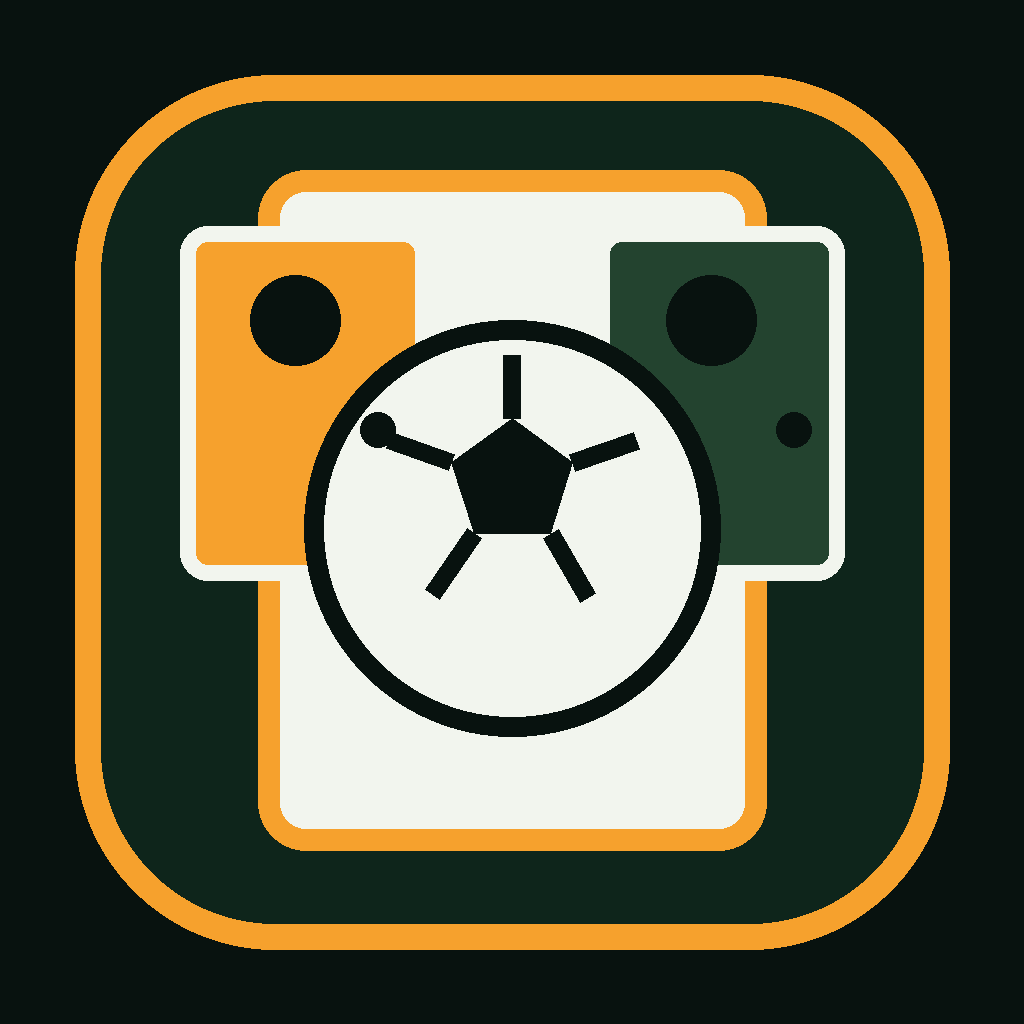
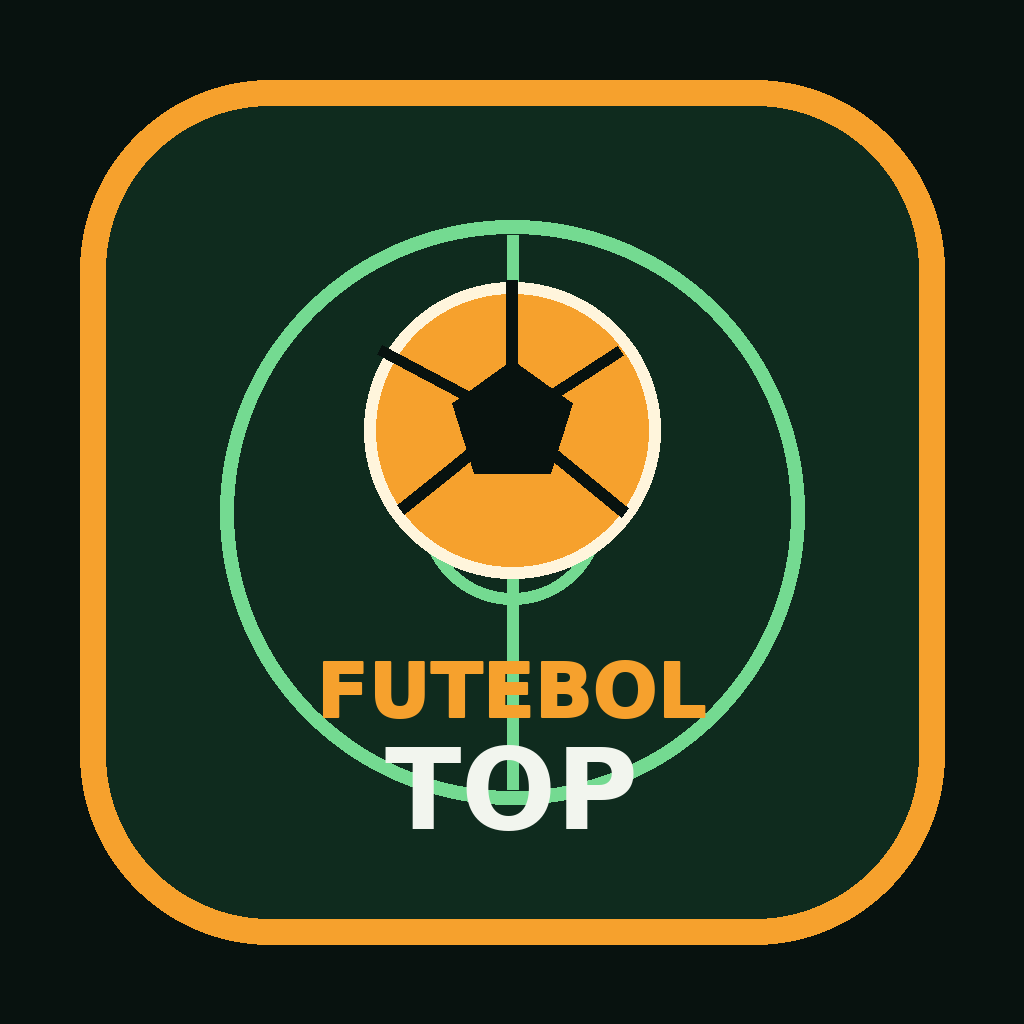
Rebrand Futebol Top v1.0.3, improve controls and remove explanatory copy

diff --git a/App.js b/App.js
@@ -1,5 +1,6 @@
 import React,{useEffect,useMemo,useRef,useState} from 'react';
-import {SafeAreaView,ScrollView,View,Text,TextInput,TouchableOpacity,StyleSheet,StatusBar,Alert,Image} from 'react-native';
+import {ScrollView,View,Text,TextInput,TouchableOpacity,StyleSheet,StatusBar,Alert,Image} from 'react-native';
+import {SafeAreaView} from 'react-native-safe-area-context';
 import AsyncStorage from '@react-native-async-storage/async-storage';
 
 const C={bg:'#08120f',panel:'#101f19',panel2:'#162a20',line:'#2a4535',orange:'#f6a12d',green:'#74da91',white:'#f2f5ee',muted:'#a4b4a7',red:'#ff7265'};
@@ -36,14 +37,14 @@ function nextSeason(){S(old=>{if(!old)return old;let names=old.league.teams.map(
 function generatePlayers(team){let roles=['GOL','ZAG','ZAG','LAT','LAT','MEI','MEI','MEI','ATA','ATA','ATA','GOL','ZAG','MEI','ATA','LAT'];return roles.map((role,i)=>({id:i,name:['Caio','Davi','Lucas','Rafael','João','Pedro','Enzo','Matheus','Gabriel','Miguel','Arthur','Bruno','Heitor','Vitor','Nicolas','Samuel'][i],surname:['Silva','Souza','Costa','Santos','Oliveira','Pereira','Ferreira','Almeida'][i%8],role,ovr:62+((i*7+team.length)%22),energy:100}))}
 function setTactic(t){TAC(t);EL(x=>[`Carta tática ativada: ${t}.`,...x])}
 const rank=game?.league.teams.findIndex(t=>t.name===game.club)+1;
-if(!ready)return <SafeAreaView style={styles.safe}><Text style={styles.brand}>⚽ CARTAS DO FUTEBOL</Text></SafeAreaView>;
-return <SafeAreaView style={styles.safe}><StatusBar barStyle="light-content" backgroundColor={C.bg}/><View style={styles.header}><View style={styles.brandRow}><Image source={require('./icon.png')} style={styles.logo} resizeMode="contain"/><Text style={styles.brand}>CARTAS DO FUTEBOL</Text></View><Text style={styles.headMeta}>SUA CARREIRA</Text></View>
-{screen==='setup'?<ScrollView contentContainerStyle={styles.content}><View style={styles.hero}><Text style={styles.eyebrow}>CRIE SEU CLUBE</Text><Text style={styles.heroTitle}>Comece de baixo.{ '\n'}Chegue ao topo.</Text><Text style={styles.muted}>Monte seu time e lute pelo acesso. Cada minuto da partida pode mudar sua história.</Text></View><Card><Text style={styles.sectionTitle}>Seu clube</Text><TextInput value={club} onChangeText={CL} placeholder="Nome do clube" placeholderTextColor="#788b7c" style={styles.input}/><TextInput value={city} onChangeText={CY} placeholder="Sua cidade (opcional)" placeholderTextColor="#788b7c" style={styles.input}/><Text style={styles.label}>ESCOLHA O PAÍS</Text><ScrollView horizontal showsHorizontalScrollIndicator={false}>{COUNTRIES.map(c=><Btn key={c} kind={country===c?'primary':'secondary'} onPress={()=>SC(c)} style={styles.chip}>{c}</Btn>)}</ScrollView>{country==='Brasil'&&<><Text style={styles.label}>ESTADO DO SEU CLUBE</Text><ScrollView horizontal showsHorizontalScrollIndicator={false}>{Object.entries(UF).map(([uf,n])=><Btn key={uf} kind={state===uf?'primary':'secondary'} disabled={!TEAMS[uf]} onPress={()=>SS(uf)} style={styles.chip}>{uf}</Btn>)}</ScrollView><View style={styles.notice}><Text style={styles.noticeText}>{BOTTOM[state]?`Você começa no ${BOTTOM[state][0]}, a divisão estadual de entrada em 2026.`:`A divisão inicial de ${CUP[state]} ainda não tem lista de clubes confirmada no jogo.`}</Text></View></>}<View style={styles.notice}><Text style={styles.noticeText}>Competição inicial: {country==='Brasil'?stageInfo[0]:DIVS[country][0]}. Base verificada em 2026: liga estadual inicial de SP, RJ e MG.</Text></View><Btn kind="primary" onPress={newCareer} style={{marginTop:14}}>CRIAR CLUBE E COMEÇAR</Btn></Card><Text style={styles.tiny}>Versão de desenvolvimento. Apenas a liga inicial estadual de SP, RJ e MG tem lista de clubes verificada; progressão e copas ainda não implementadas.</Text></ScrollView>:screen==='match'?<ScrollView contentContainerStyle={styles.content}><View style={styles.rowBetween}><Btn onPress={()=>{ML(false);V('main')}}>← Voltar</Btn><Text style={styles.eyebrow}>{game.league.name.toUpperCase()}</Text></View><Card style={styles.scoreCard}><Text style={styles.label}>{minute<45?'1º TEMPO':'2º TEMPO'} · {minute}'</Text><View style={styles.scoreRow}><Text style={styles.team}>{homeTeam}</Text><Text style={styles.score}>{homeScore} : {awayScore}</Text><Text style={styles.team}>{awayTeam}</Text></View><Text style={styles.caption}>RODADA {game.league.round} · {game.country==='Brasil'?CUP[game.state]+' estadual':'liga nacional'}</Text></Card><Card><Text style={styles.sectionTitle}>Cartas táticas</Text><Text style={styles.muted}>Mude sua estratégia e a velocidade durante a partida.</Text><Text style={styles.label}>VELOCIDADE · CADA MINUTO</Text><View style={styles.row}>{[[450,'Lento'],[115,'Normal'],[35,'Rápido']].map(([ms,label])=><Btn key={ms} kind={tickMs===ms?'primary':'secondary'} onPress={()=>TM(ms)} style={styles.tactic}>{label}</Btn>)}</View><View style={styles.row}>{['Equilíbrio','Ataque','Defesa'].map((t,i)=><Btn key={t} kind={chosen===t?'primary':'secondary'} onPress={()=>setTactic(t)} style={styles.tactic}>{['⚖ ','⚡ ','🛡 '][i]}{t}</Btn>)}</View>{minute===45&&!matchLive?<Btn kind="primary" onPress={()=>startGame(true)}>COMEÇAR 2º TEMPO</Btn>:!matchLive&&minute===0?<Btn kind="primary" onPress={()=>startGame()}>COMEÇAR PARTIDA</Btn>:minute>0&&!matchLive&&minute<45?<Btn kind="primary" onPress={()=>{PA(false);ML(true)}}>CONTINUAR 1º TEMPO</Btn>:matchLive?<Btn onPress={()=>PA(x=>!x)}>{pause?'CONTINUAR':'PAUSAR'}</Btn>:null}<View style={styles.log}>{eventLog.map((x,i)=><Text key={i} style={styles.logText}>{x}</Text>)}</View></Card></ScrollView>:<><ScrollView contentContainerStyle={styles.content}>{tab==='Início'&&<><View style={styles.hero}><Text style={styles.eyebrow}>{game.country==='Brasil'?UF[game.state]+' · '+game.league.name:game.country+' · '+game.division}</Text><Text style={styles.heroTitle}>{game.club}</Text><Text style={styles.muted}>Temporada {game.season} · {game.league.teams.length} clubes · posição {rank}º</Text><View style={styles.row}><View style={styles.stat}><Text style={styles.statN}>{game.league.teams.find(t=>t.name===game.club)?.pts||0}</Text><Text style={styles.statL}>PONTOS</Text></View><View style={styles.stat}><Text style={styles.statN}>{game.coins}</Text><Text style={styles.statL}>CAIXA</Text></View><View style={styles.stat}><Text style={styles.statN}>{game.players.length}</Text><Text style={styles.statL}>JOGADORES</Text></View></View></View><Card><View style={styles.rowBetween}><View><Text style={styles.eyebrow}>PRÓXIMO DESAFIO</Text><Text style={styles.sectionTitle}>Rodada {game.league.round}</Text></View><Text style={styles.pill}>LIGA</Text></View>{hasMatch?<><Text style={styles.fixture}>{homeTeam}  ×  {awayTeam}</Text><Text style={styles.muted}>Competição: {game.league.name}</Text><Btn kind="primary" onPress={()=>startGame()}>JOGAR PARTIDA</Btn></>:<Text style={styles.muted}>Temporada encerrada. Confira a classificação. A progressão para outras divisões ainda não está implementada.</Text>}</Card>{game.lastResult&&<Card><Text style={styles.eyebrow}>ÚLTIMO RESULTADO</Text><Text style={styles.sectionTitle}>{game.lastResult.score} vs {game.lastResult.opponent}</Text>{game.lastResult.seasonEnd&&<Text style={styles.noticeText}>Você terminou em {game.lastResult.rank}º lugar. A liga desta divisão está encerrada; outros níveis ainda não estão disponíveis.</Text>}</Card>}<Card><Text style={styles.sectionTitle}>Sua carreira</Text><Text style={styles.muted}>O modo carreira ainda não implementa acesso entre divisões, ligas nacionais nem copas. As regras de elegibilidade para a Libertadores ainda não estão codificadas.</Text><Text style={styles.muted}>Somente a liga estadual inicial está jogável nesta versão.</Text></Card></>}
+if(!ready)return <SafeAreaView style={styles.safe} edges={['top','bottom']}><Text style={styles.brand}>⚽ FUTEBOL TOP</Text></SafeAreaView>;
+return <SafeAreaView style={styles.safe} edges={['top','bottom']}><StatusBar barStyle="light-content" backgroundColor={C.bg}/><View style={styles.header}><View style={styles.brandRow}><Image source={require('./icon.png')} style={styles.logo} resizeMode="contain"/><Text style={styles.brand}>FUTEBOL TOP</Text></View><Text style={styles.headMeta}>SUA CARREIRA</Text></View>
+{screen==='setup'?<ScrollView contentContainerStyle={styles.content}><View style={styles.hero}><Text style={styles.eyebrow}>CRIE SEU CLUBE</Text><Text style={styles.heroTitle}>Comece de baixo.{ '\n'}Chegue ao topo.</Text></View><Card><Text style={styles.sectionTitle}>Seu clube</Text><TextInput value={club} onChangeText={CL} placeholder="Nome do clube" placeholderTextColor="#788b7c" style={styles.input}/><TextInput value={city} onChangeText={CY} placeholder="Sua cidade (opcional)" placeholderTextColor="#788b7c" style={styles.input}/><Text style={styles.label}>ESCOLHA O PAÍS</Text><ScrollView horizontal showsHorizontalScrollIndicator={false}>{COUNTRIES.map(c=><Btn key={c} kind={country===c?'primary':'secondary'} onPress={()=>SC(c)} style={styles.chip}>{c}</Btn>)}</ScrollView>{country==='Brasil'&&<><Text style={styles.label}>ESTADO DO SEU CLUBE</Text><ScrollView horizontal showsHorizontalScrollIndicator={false}>{Object.entries(UF).map(([uf,n])=><Btn key={uf} kind={state===uf?'primary':'secondary'} disabled={!TEAMS[uf]} onPress={()=>SS(uf)} style={styles.chip}>{uf}</Btn>)}</ScrollView></>}<Btn kind="primary" onPress={newCareer} style={{marginTop:14}}>CRIAR CLUBE E COMEÇAR</Btn></Card></ScrollView>:screen==='match'?<ScrollView contentContainerStyle={styles.content}><View style={styles.rowBetween}><Btn onPress={()=>{ML(false);V('main')}}>← Voltar</Btn><Text style={styles.eyebrow}>{game.league.name.toUpperCase()}</Text></View><Card style={styles.scoreCard}><Text style={styles.label}>{minute<45?'1º TEMPO':'2º TEMPO'} · {minute}'</Text><View style={styles.scoreRow}><Text style={styles.team}>{homeTeam}</Text><Text style={styles.score}>{homeScore} : {awayScore}</Text><Text style={styles.team}>{awayTeam}</Text></View><Text style={styles.caption}>RODADA {game.league.round} · {game.country==='Brasil'?CUP[game.state]+' estadual':'liga nacional'}</Text></Card><Card><Text style={styles.sectionTitle}>Cartas táticas</Text><Text style={styles.muted}>Mude sua estratégia e a velocidade durante a partida.</Text><Text style={styles.label}>VELOCIDADE · CADA MINUTO</Text><View style={styles.row}>{[[450,'Lento'],[115,'Normal'],[35,'Rápido']].map(([ms,label])=><Btn key={ms} kind={tickMs===ms?'primary':'secondary'} onPress={()=>TM(ms)} style={styles.tactic}>{label}</Btn>)}</View><View style={styles.row}>{['Equilíbrio','Ataque','Defesa'].map((t,i)=><Btn key={t} kind={chosen===t?'primary':'secondary'} onPress={()=>setTactic(t)} style={styles.tactic}>{['⚖ ','⚡ ','🛡 '][i]}{t}</Btn>)}</View>{minute===45&&!matchLive?<Btn kind="primary" onPress={()=>startGame(true)}>COMEÇAR 2º TEMPO</Btn>:!matchLive&&minute===0?<Btn kind="primary" onPress={()=>startGame()}>COMEÇAR PARTIDA</Btn>:minute>0&&!matchLive&&minute<45?<Btn kind="primary" onPress={()=>{PA(false);ML(true)}}>CONTINUAR 1º TEMPO</Btn>:matchLive?<Btn onPress={()=>PA(x=>!x)}>{pause?'CONTINUAR':'PAUSAR'}</Btn>:null}<View style={styles.log}>{eventLog.map((x,i)=><Text key={i} style={styles.logText}>{x}</Text>)}</View></Card></ScrollView>:<><ScrollView contentContainerStyle={styles.content}>{tab==='Início'&&<><View style={styles.hero}><Text style={styles.eyebrow}>{game.country==='Brasil'?UF[game.state]+' · '+game.league.name:game.country+' · '+game.division}</Text><Text style={styles.heroTitle}>{game.club}</Text><Text style={styles.muted}>Temporada {game.season} · {game.league.teams.length} clubes · posição {rank}º</Text><View style={styles.row}><View style={styles.stat}><Text style={styles.statN}>{game.league.teams.find(t=>t.name===game.club)?.pts||0}</Text><Text style={styles.statL}>PONTOS</Text></View><View style={styles.stat}><Text style={styles.statN}>{game.coins}</Text><Text style={styles.statL}>CAIXA</Text></View><View style={styles.stat}><Text style={styles.statN}>{game.players.length}</Text><Text style={styles.statL}>JOGADORES</Text></View></View></View><Card><View style={styles.rowBetween}><View><Text style={styles.eyebrow}>PRÓXIMO DESAFIO</Text><Text style={styles.sectionTitle}>Rodada {game.league.round}</Text></View><Text style={styles.pill}>LIGA</Text></View>{hasMatch?<><Text style={styles.fixture}>{homeTeam}  ×  {awayTeam}</Text><Text style={styles.muted}>Competição: {game.league.name}</Text><Btn kind="primary" onPress={()=>startGame()}>JOGAR PARTIDA</Btn></>:<Text style={styles.muted}>Temporada encerrada. Confira a classificação. A progressão para outras divisões ainda não está implementada.</Text>}</Card>{game.lastResult&&<Card><Text style={styles.eyebrow}>ÚLTIMO RESULTADO</Text><Text style={styles.sectionTitle}>{game.lastResult.score} vs {game.lastResult.opponent}</Text>{game.lastResult.seasonEnd&&<Text style={styles.noticeText}>Você terminou em {game.lastResult.rank}º lugar.</Text>}</Card>}<Card><Text style={styles.eyebrow}>SUA CARREIRA</Text><Text style={styles.sectionTitle}>OBJETIVO: SUBIR DE LIGA</Text></Card></>}
 {tab==='Classificação'&&<Card><Text style={styles.eyebrow}>{game.league.name.toUpperCase()} · TEMPORADA {game.season}</Text><Text style={styles.sectionTitle}>Classificação</Text><View style={styles.tableHead}><Text style={styles.pos}>#</Text><Text style={styles.clubCol}>CLUBE</Text><Text style={styles.num}>J</Text><Text style={styles.num}>V</Text><Text style={styles.num}>E</Text><Text style={styles.num}>D</Text><Text style={styles.pts}>PTS</Text></View>{game.league.teams.map((r,i)=><View key={r.name} style={[styles.tableRow,r.name===game.club&&{background:'#233d2d'}]}><Text style={styles.pos}>{i+1}</Text><Text style={[styles.clubCol,r.name===game.club&&{color:C.orange,fontWeight:'900'}]} numberOfLines={1}>{r.name}</Text><Text style={styles.num}>{r.j}</Text><Text style={styles.num}>{r.v}</Text><Text style={styles.num}>{r.e}</Text><Text style={styles.num}>{r.d}</Text><Text style={styles.pts}>{r.pts}</Text></View>)}</Card>}
 {tab==='Elenco'&&<Card><Text style={styles.eyebrow}>PLANTEL PRINCIPAL</Text><Text style={styles.sectionTitle}>{game.players.length} jogadores</Text>{game.players.map((p,i)=><View key={p.id} style={styles.playerRow}><Text style={styles.ovr}>{p.ovr}</Text><View style={{flex:1}}><Text style={styles.playerName}>{p.name} {p.surname}</Text><Text style={styles.caption}>{p.role} · energia {p.energy}%</Text></View><Text style={styles.cardIcon}>{['🧤','🛡','⚡'][i%3]}</Text></View>)}</Card>}
 {tab==='Copas'&&<><Card><Text style={styles.eyebrow}>COMPETIÇÕES</Text><Text style={styles.sectionTitle}>Caminho dos títulos</Text><Text style={styles.cupRow}>🏆  {game.league.name} · liga jogável da carreira</Text><Text style={styles.cupRow}>⏳  Copa do Brasil, Libertadores, Sul-Americana e torneios internacionais ainda não implementados</Text></Card><Card><Text style={styles.muted}>Não mostramos torneios fictícios: estas competições aguardam dados verificados e implementação.</Text></Card></>}
 </ScrollView><View style={styles.nav}>{['Início','Classificação','Elenco','Copas'].map((x,i)=><TouchableOpacity onPress={()=>T(x)} key={x} style={[styles.navItem,tab===x&&styles.navActive]}><Text style={{fontSize:19}}>{['⌂','☷','♟','🏆'][i]}</Text><Text style={[styles.navText,tab===x&&{color:C.orange}]}>{x}</Text></TouchableOpacity>)}</View></>}
 </SafeAreaView>
 }
-const styles=StyleSheet.create({safe:{flex:1,backgroundColor:C.bg},header:{paddingHorizontal:18,paddingTop:9,paddingBottom:12,flexDirection:'row',justifyContent:'space-between',alignItems:'center',borderBottomWidth:1,borderColor:'#1d3025'},brandRow:{flexDirection:'row',alignItems:'center',gap:9},logo:{width:34,height:34,borderRadius:9},brand:{color:C.orange,fontSize:17,fontWeight:'900',letterSpacing:.7},headMeta:{color:C.muted,fontSize:10,fontWeight:'800',letterSpacing:1.2},content:{padding:16,paddingBottom:32},hero:{backgroundColor:'#12271c',borderWidth:1,borderColor:C.line,borderRadius:22,padding:20,marginBottom:13},eyebrow:{color:C.orange,fontSize:10,fontWeight:'900',letterSpacing:1.2},heroTitle:{fontSize:28,fontWeight:'900',color:C.white,marginTop:8,marginBottom:7},muted:{fontSize:13,color:C.muted,lineHeight:19,marginTop:5},card:{backgroundColor:C.panel,borderColor:C.line,borderWidth:1,borderRadius:18,padding:16,marginBottom:13},sectionTitle:{color:C.white,fontSize:18,fontWeight:'900',marginTop:5,marginBottom:8},input:{backgroundColor:'#0b1711',borderColor:C.line,borderWidth:1,borderRadius:12,color:C.white,paddingHorizontal:13,paddingVertical:11,marginTop:10,fontSize:15},label:{color:C.muted,fontWeight:'800',fontSize:10,letterSpacing:1,marginTop:17,marginBottom:4},row:{flexDirection:'row',alignItems:'center',gap:8,marginTop:10,flexWrap:'wrap'},rowBetween:{flexDirection:'row',justifyContent:'space-between',alignItems:'center'},btn:{backgroundColor:C.panel2,borderColor:C.line,borderWidth:1,borderRadius:12,paddingVertical:11,paddingHorizontal:13,alignItems:'center',justifyContent:'center'},primary:{backgroundColor:C.orange,borderColor:C.orange,paddingVertical:14},ghost:{backgroundColor:'transparent'},btnText:{fontWeight:'900',fontSize:12,color:C.white},chip:{marginRight:7,marginVertical:7,paddingHorizontal:11,paddingVertical:9},notice:{backgroundColor:'#282418',borderWidth:1,borderColor:'#5b4828',borderRadius:12,padding:12,marginTop:12},noticeText:{color:'#ffd697',fontSize:12,lineHeight:18,fontWeight:'700'},tiny:{fontSize:11,color:C.muted,lineHeight:16,textAlign:'center',paddingHorizontal:12,paddingBottom:18},stat:{backgroundColor:'#0a1711',borderRadius:12,padding:10,marginRight:5,minWidth:82},statN:{fontSize:20,fontWeight:'900',color:C.green},statL:{fontSize:9,fontWeight:'900',color:C.muted,marginTop:3},pill:{color:C.green,backgroundColor:'#203d2b',paddingVertical:5,paddingHorizontal:10,borderRadius:20,fontSize:10,fontWeight:'900'},fixture:{color:C.white,fontSize:17,fontWeight:'900',marginTop:10},tableHead:{flexDirection:'row',paddingVertical:9,borderBottomWidth:1,borderColor:C.line},tableRow:{flexDirection:'row',paddingVertical:10,borderBottomWidth:1,borderColor:'#1b2d23',alignItems:'center'},pos:{width:24,color:C.muted,fontSize:11},clubCol:{flex:1,color:C.white,fontSize:11,fontWeight:'700'},num:{width:22,textAlign:'center',color:C.muted,fontSize:10},pts:{width:28,textAlign:'right',color:C.green,fontWeight:'900',fontSize:11},playerRow:{flexDirection:'row',alignItems:'center',paddingVertical:10,borderBottomWidth:1,borderColor:'#1c3024',gap:11},ovr:{width:38,height:38,borderRadius:12,backgroundColor:'#203d2a',color:C.green,textAlign:'center',textAlignVertical:'center',fontSize:15,fontWeight:'900',paddingTop:8},playerName:{color:C.white,fontWeight:'800',fontSize:14},caption:{color:C.muted,fontSize:10,marginTop:5},cupRow:{color:C.white,fontSize:13,fontWeight:'700',paddingVertical:11,borderBottomWidth:1,borderColor:'#1c3024'},scoreCard:{alignItems:'center',paddingVertical:22,backgroundColor:'#153321'},scoreRow:{flexDirection:'row',alignItems:'center',justifyContent:'space-between',width:'100%',marginVertical:14,gap:8},team:{color:C.white,fontWeight:'900',fontSize:13,flex:1,textAlign:'center'},score:{color:C.orange,fontWeight:'900',fontSize:30},rowBetween:{flexDirection:'row',justifyContent:'space-between',alignItems:'center'},tactic:{flex:1,paddingHorizontal:5},log:{backgroundColor:'#0a1711',borderRadius:12,padding:12,marginTop:15,minHeight:145},logText:{color:C.muted,fontSize:12,lineHeight:19,borderBottomWidth:1,borderColor:'#1c3024',paddingVertical:4},nav:{flexDirection:'row',backgroundColor:'#101c16',borderTopWidth:1,borderColor:C.line,paddingTop:7,paddingBottom:4},navItem:{flex:1,alignItems:'center',paddingVertical:5},navActive:{borderTopWidth:2,borderColor:C.orange},navText:{fontSize:10,color:C.muted,fontWeight:'800',marginTop:2},tactic:{flex:1},cardIcon:{fontSize:21}});
+const styles=StyleSheet.create({safe:{flex:1,backgroundColor:C.bg},header:{paddingHorizontal:18,paddingTop:9,paddingBottom:12,flexDirection:'row',justifyContent:'space-between',alignItems:'center',borderBottomWidth:1,borderColor:'#1d3025'},brandRow:{flexDirection:'row',alignItems:'center',gap:9},logo:{width:34,height:34,borderRadius:9},brand:{color:C.orange,fontSize:17,fontWeight:'900',letterSpacing:.7},headMeta:{color:C.muted,fontSize:10,fontWeight:'800',letterSpacing:1.2},content:{padding:16,paddingBottom:40},hero:{backgroundColor:'#12271c',borderWidth:1,borderColor:C.line,borderRadius:22,padding:20,marginBottom:13},eyebrow:{color:C.orange,fontSize:10,fontWeight:'900',letterSpacing:1.2},heroTitle:{fontSize:28,fontWeight:'900',color:C.white,marginTop:8,marginBottom:7},muted:{fontSize:13,color:C.muted,lineHeight:19,marginTop:5},card:{backgroundColor:C.panel,borderColor:C.line,borderWidth:1,borderRadius:18,padding:16,marginBottom:13},sectionTitle:{color:C.white,fontSize:18,fontWeight:'900',marginTop:5,marginBottom:8},input:{backgroundColor:'#0b1711',borderColor:C.line,borderWidth:1,borderRadius:12,color:C.white,paddingHorizontal:13,paddingVertical:11,marginTop:10,fontSize:15},label:{color:C.muted,fontWeight:'800',fontSize:10,letterSpacing:1,marginTop:17,marginBottom:4},row:{flexDirection:'row',alignItems:'center',gap:8,marginTop:10,flexWrap:'wrap'},rowBetween:{flexDirection:'row',justifyContent:'space-between',alignItems:'center'},btn:{backgroundColor:C.panel2,borderColor:C.line,borderWidth:1,borderRadius:12,paddingVertical:15,paddingHorizontal:14,minHeight:52,alignItems:'center',justifyContent:'center'},primary:{backgroundColor:C.orange,borderColor:C.orange,paddingVertical:16,minHeight:56},ghost:{backgroundColor:'transparent'},btnText:{fontWeight:'900',fontSize:12,color:C.white},chip:{marginRight:7,marginVertical:7,paddingHorizontal:13,paddingVertical:12,minHeight:48},notice:{backgroundColor:'#282418',borderWidth:1,borderColor:'#5b4828',borderRadius:12,padding:12,marginTop:12},noticeText:{color:'#ffd697',fontSize:12,lineHeight:18,fontWeight:'700'},tiny:{fontSize:11,color:C.muted,lineHeight:16,textAlign:'center',paddingHorizontal:12,paddingBottom:18},stat:{backgroundColor:'#0a1711',borderRadius:12,padding:10,marginRight:5,minWidth:82},statN:{fontSize:20,fontWeight:'900',color:C.green},statL:{fontSize:9,fontWeight:'900',color:C.muted,marginTop:3},pill:{color:C.green,backgroundColor:'#203d2b',paddingVertical:5,paddingHorizontal:10,borderRadius:20,fontSize:10,fontWeight:'900'},fixture:{color:C.white,fontSize:17,fontWeight:'900',marginTop:10},tableHead:{flexDirection:'row',paddingVertical:9,borderBottomWidth:1,borderColor:C.line},tableRow:{flexDirection:'row',paddingVertical:10,borderBottomWidth:1,borderColor:'#1b2d23',alignItems:'center'},pos:{width:24,color:C.muted,fontSize:11},clubCol:{flex:1,color:C.white,fontSize:11,fontWeight:'700'},num:{width:22,textAlign:'center',color:C.muted,fontSize:10},pts:{width:28,textAlign:'right',color:C.green,fontWeight:'900',fontSize:11},playerRow:{flexDirection:'row',alignItems:'center',paddingVertical:10,borderBottomWidth:1,borderColor:'#1c3024',gap:11},ovr:{width:38,height:38,borderRadius:12,backgroundColor:'#203d2a',color:C.green,textAlign:'center',textAlignVertical:'center',fontSize:15,fontWeight:'900',paddingTop:8},playerName:{color:C.white,fontWeight:'800',fontSize:14},caption:{color:C.muted,fontSize:10,marginTop:5},cupRow:{color:C.white,fontSize:13,fontWeight:'700',paddingVertical:11,borderBottomWidth:1,borderColor:'#1c3024'},scoreCard:{alignItems:'center',paddingVertical:22,backgroundColor:'#153321'},scoreRow:{flexDirection:'row',alignItems:'center',justifyContent:'space-between',width:'100%',marginVertical:14,gap:8},team:{color:C.white,fontWeight:'900',fontSize:13,flex:1,textAlign:'center'},score:{color:C.orange,fontWeight:'900',fontSize:30},rowBetween:{flexDirection:'row',justifyContent:'space-between',alignItems:'center'},tactic:{flex:1,paddingHorizontal:5},log:{backgroundColor:'#0a1711',borderRadius:12,padding:12,marginTop:15,minHeight:145},logText:{color:C.muted,fontSize:12,lineHeight:19,borderBottomWidth:1,borderColor:'#1c3024',paddingVertical:4},nav:{flexDirection:'row',backgroundColor:'#101c16',borderTopWidth:1,borderColor:C.line,paddingTop:6,paddingBottom:8,minHeight:68},navItem:{flex:1,alignItems:'center',justifyContent:'center',paddingVertical:8,minHeight:60},navActive:{borderTopWidth:2,borderColor:C.orange},navText:{fontSize:10,color:C.muted,fontWeight:'800',marginTop:2},tactic:{flex:1},cardIcon:{fontSize:21}});
 export default App;

diff --git a/README.md b/README.md
@@ -1,22 +1,10 @@
-# Cartas do Futebol — Android
+# Futebol Top — Android
 
-Career-game project for Android (Expo / React Native). This is an incomplete development build, not the finished game.
+Jogo de carreira de futebol para Android (Expo / React Native). A versão atual permite criar um clube e jogar partidas da liga estadual de entrada nos estados com dados de participantes verificados. Tabela, elenco, escolhas táticas e eventos de partida ficam salvos localmente no aparelho.
 
-## Current playable scope
-- Create a custom club for Brazil in one of three verified state entry leagues: Paulista A4, Carioca Série B2 or Mineiro Segunda Divisão (2026 participant lists sourced below).
-- Round-robin league table/fixtures, generated fictional player roster, tactical choices, minute-by-minute match events, pause/resume and selectable match speed.
-- Progress is currently limited to the selected opening league. The project does **not** yet implement state promotion, national divisions, Copa do Brasil, Libertadores, other international cups, or the other 19 countries. No progression to national Série D–A is claimed.
-- Clubs generated for the player's custom team are fictional. The named rival teams in supported state leagues are the published 2026 participant lists; official affiliations are not implied beyond participation.
-- Save data is local to the Android installation.
+A progressão para outras divisões, ligas nacionais, Copa do Brasil, Libertadores, demais copas e ligas internacionais ainda não está implementada. O objetivo exibido no jogo é uma meta, não uma mecânica de promoção já disponível.
 
-## Verified 2026 entry-league participant sources
-- São Paulo — Paulista A4 final participant table / clubs: https://ge.globo.com/sp/mogi-das-cruzes-suzano/futebol/paulista-serie-a4/noticia/2026/04/04/paulista-serie-a4-veja-classificados-rebaixados-e-confrontos-das-quartas-de-final.ghtml
-- Rio de Janeiro — Carioca Série B2 participants: https://ge.globo.com/rj/sul-do-rio-costa-verde/futebol/noticia/2026/08/04/barra-mansa-sera-casa-de-dois-clubes-na-quarta-divisao-do-campeonato-carioca-entenda.ghtml
-- Minas Gerais — Mineiro Segunda Divisão groups: https://ge.globo.com/mg/triangulo-mineiro/futebol/noticia/2026/06/11/segunda-divisao-do-mineiro-2026-veja-datas-grupos-e-formato-de-disputa.ghtml
-
-## Brazilian national 2026 reference lists (not yet implemented)
-- Série A–D participants: https://ge.globo.com/pi/futebol/noticia/2025/12/29/brasileirao-veja-os-156-clubes-das-series-a-b-c-e-d-em-2026.ghtml
-- Copa do Brasil participants and entry rounds: https://ge.globo.com/pe/futebol/copa-do-brasil/noticia/2025/12/22/copa-do-brasil-2026-veja-todos-os-126-clubes-classificados-e-fase-de-estreia-de-cada-um.ghtml
+O salvamento existente permanece compatível: o app continua lendo e gravando a chave local `footballCareerV1`.
 
 ## Build
-The Android workflow builds a debug APK and checks its ZIP/package structure. A passing build only proves an APK artifact was produced; gameplay still needs device testing before release.
+`npm install` e `npx expo start`; o workflow em `.github/workflows/android.yml` gera e valida o APK assinado de release.
